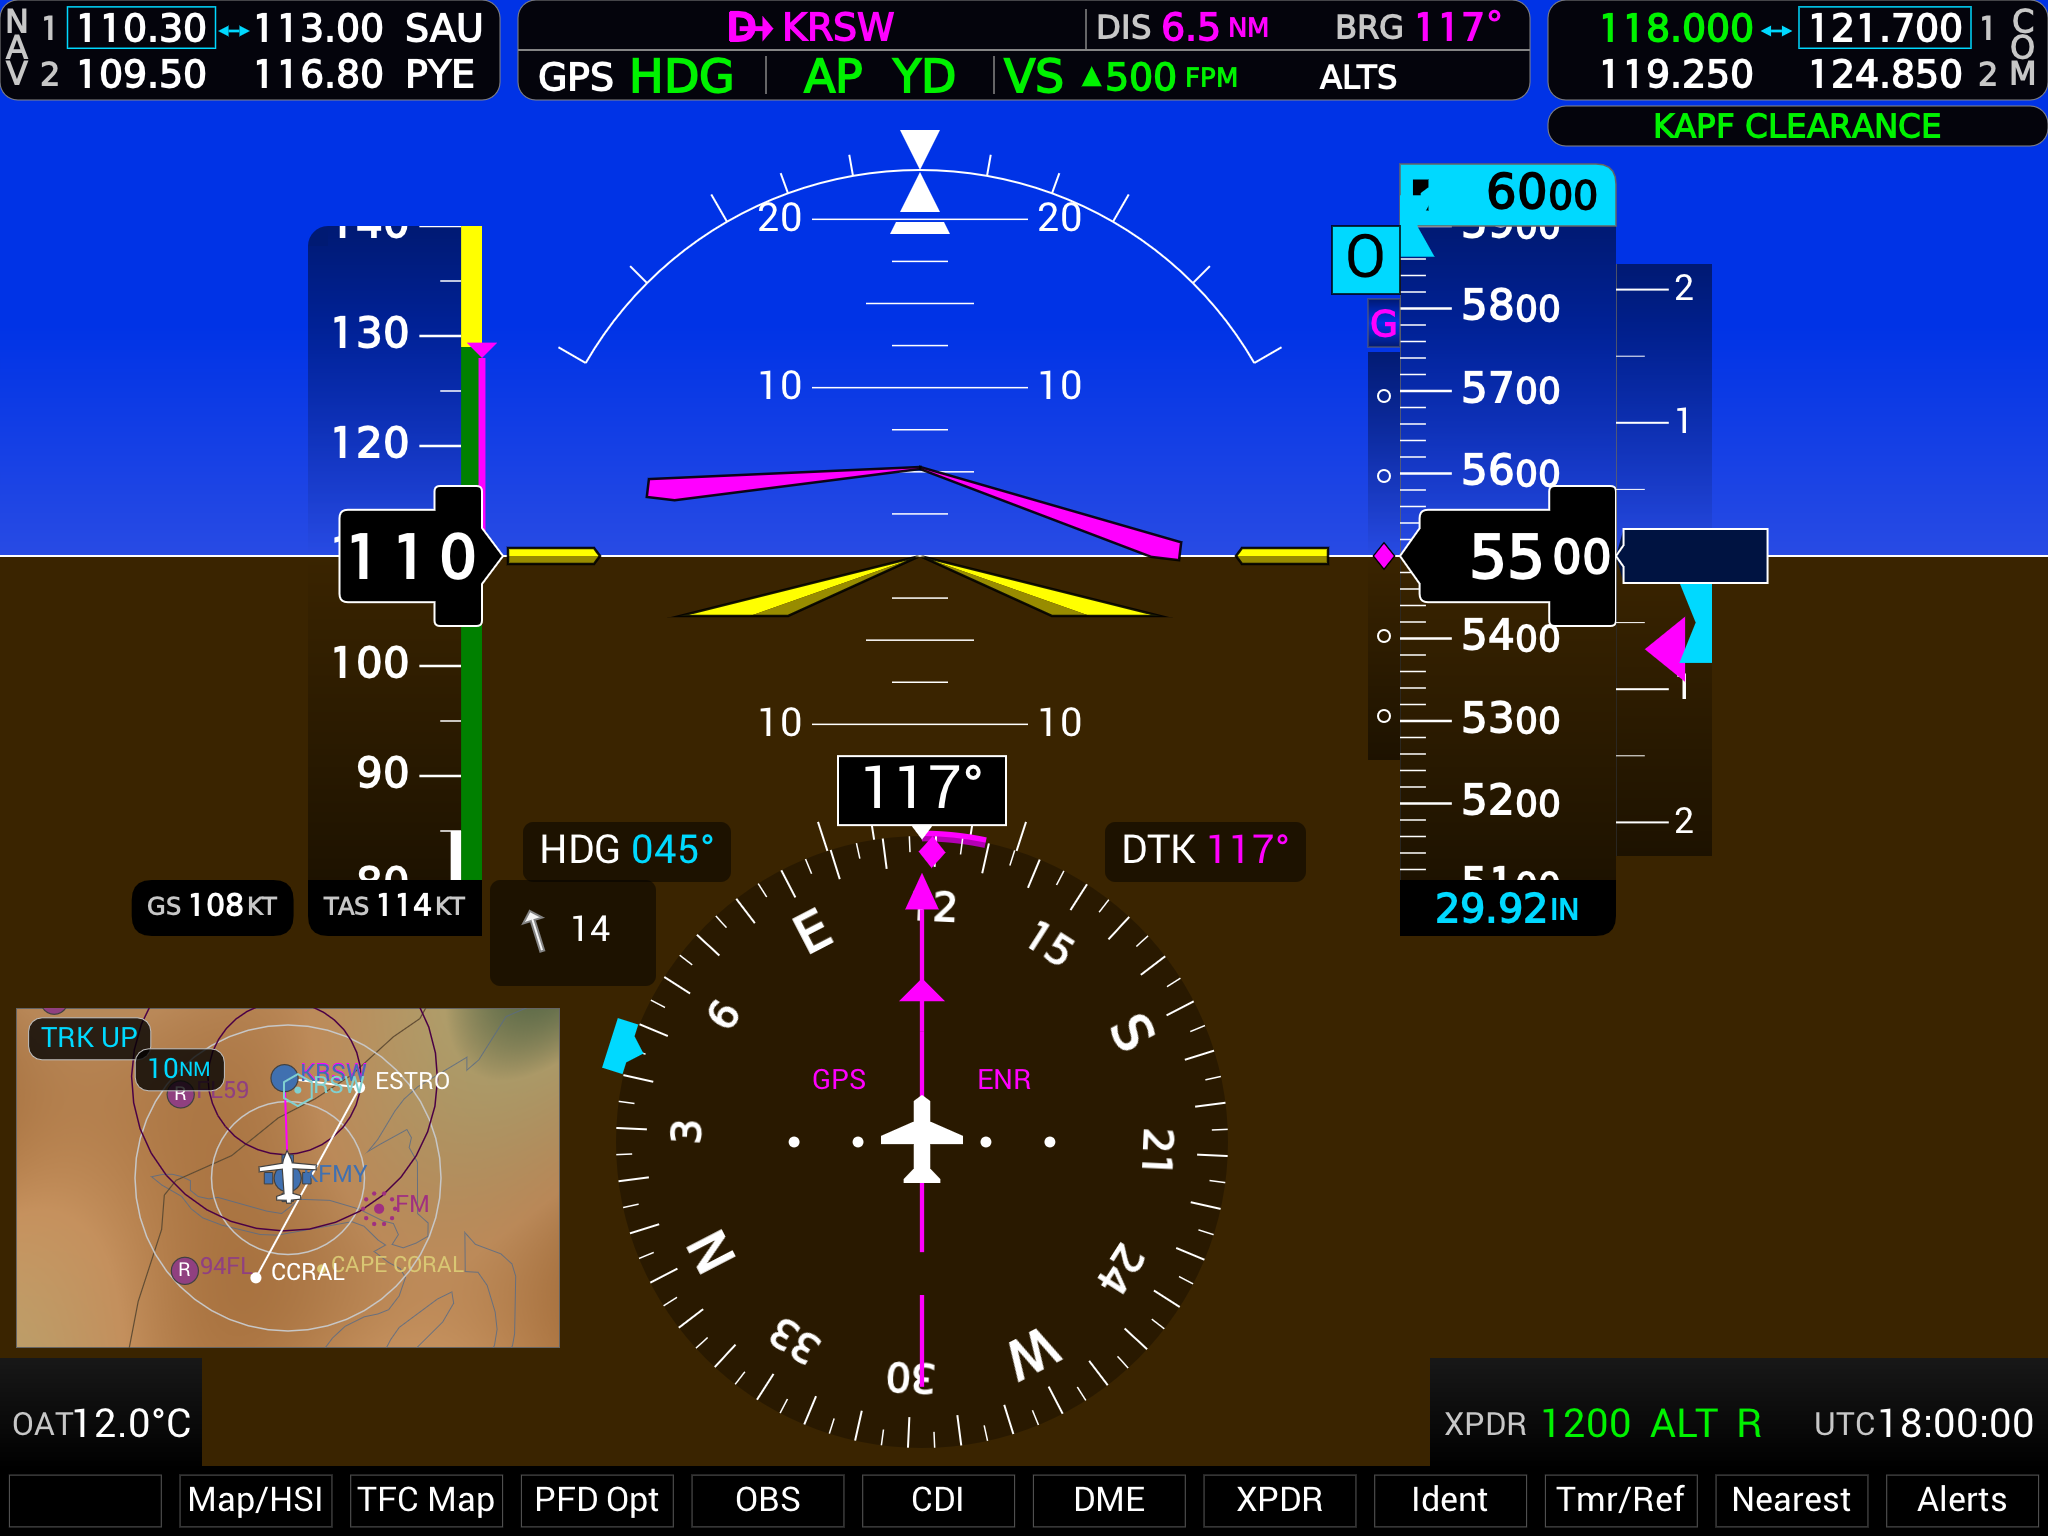
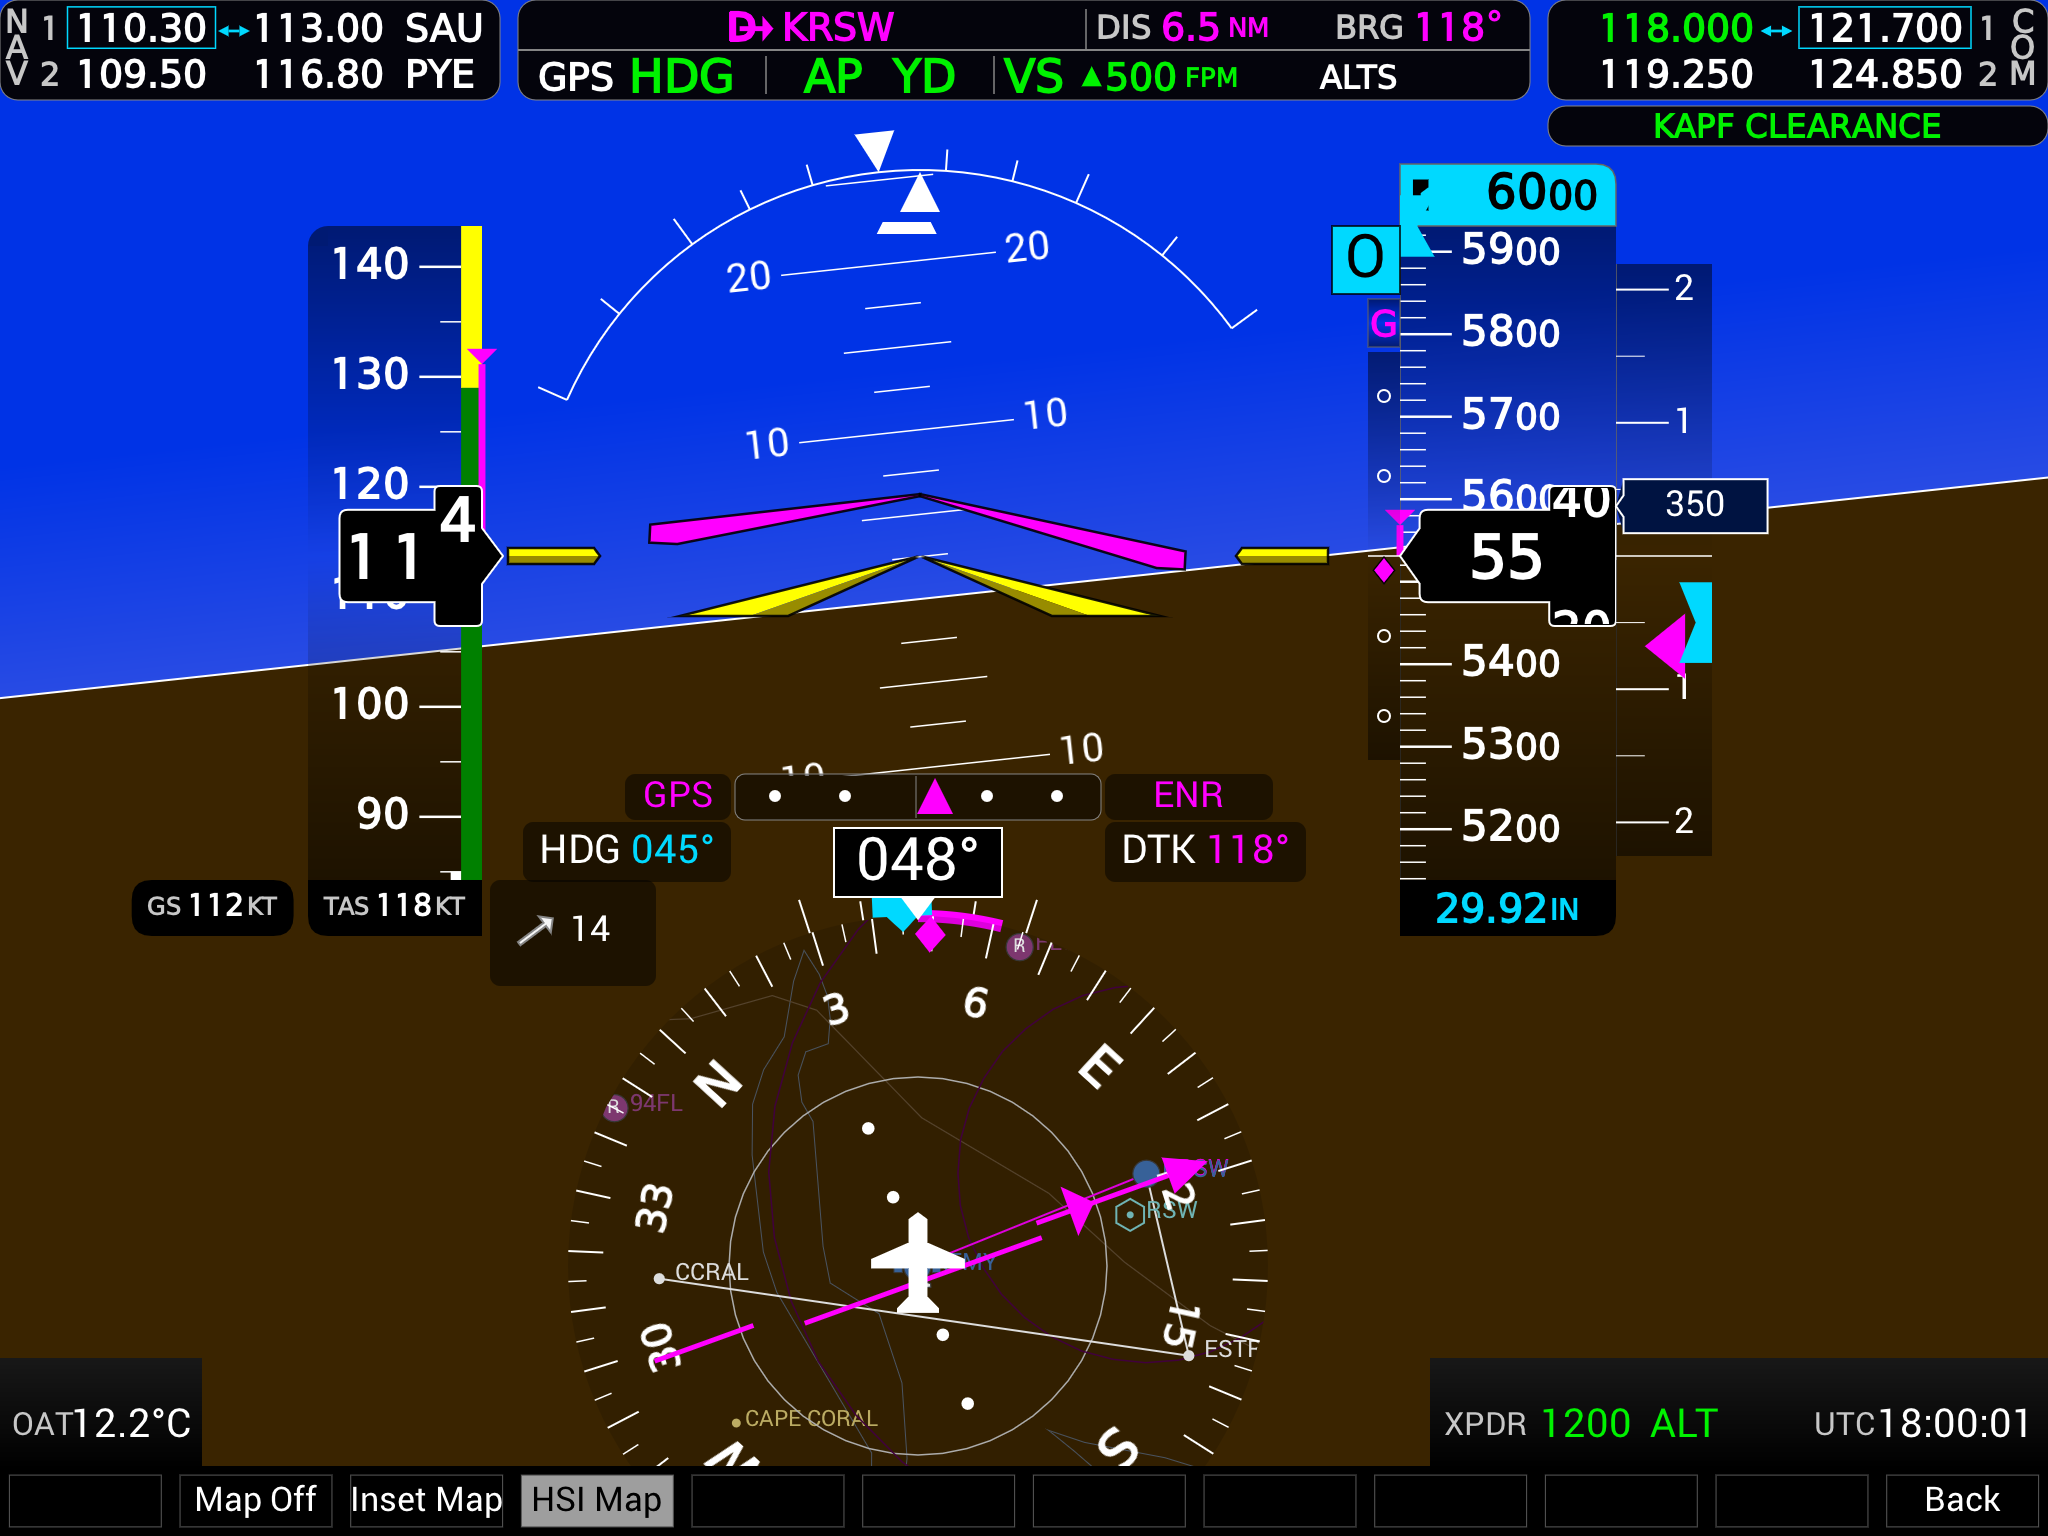
Show HSI Map (terrain off) in the README PFD screenshot
Turn Topo off in the hsimap screenshot state so the moving map draws
over a black background, and use that capture for the README PFD image.

diff --git a/shell-standalone/src/main.cpp b/shell-standalone/src/main.cpp
@@ -948,10 +948,13 @@ int RunScreenshot(const char* path, double seconds, const char* state,
     RenderSuiteSettled(renderer, engine, fbWidth, fbHeight, showBezel);
   } else if (state != nullptr && std::strcmp(state, "hsimap") == 0) {
     // The PFD with the HSI Map layout selected (Map/HSI > Layout > HSI Map):
-    // the moving map fills the compass rose. Matches the real-unit photo.
+    // the moving map fills the compass rose. Topo is turned off first so the
+    // map draws over a black background instead of the topographic shading.
     engine.skipBoot();
     engine.update(seconds);
     engine.pressSoftkey(1);  // "Map/HSI" -> open submenu
+    for (int i = 0; i < 5; ++i) engine.update(1.0 / 60.0);
+    engine.pressSoftkey(4);  // "Topo" -> off (black map background)
     for (int i = 0; i < 5; ++i) engine.update(1.0 / 60.0);
     engine.pressSoftkey(1);  // "Layout" -> open layout radio
     for (int i = 0; i < 5; ++i) engine.update(1.0 / 60.0);

diff --git a/README.md b/README.md
@@ -18,11 +18,11 @@ A high-performance glass-cockpit (G1000-style PFD/MFD) for X-Plane, built as
 2. **As a standalone desktop program** — its own window + 60 fps loop, fed by
    X-Plane over the network.
 
-![Primary Flight Display with inset map](docs/screenshots/pfd.png)
+![Primary Flight Display with HSI map](docs/screenshots/pfd.png)
 
 ![Multi-Function Display — Navigation Map page](docs/screenshots/mfd.png)
 
-Screenshots from the standalone shell (PFD with inset map enabled; MFD on the
+Screenshots from the standalone shell (PFD with the HSI map enabled; MFD on the
 Navigation Map page), captured with the offscreen `--screenshot` tool.
 
 ## Why C++ and this structure
